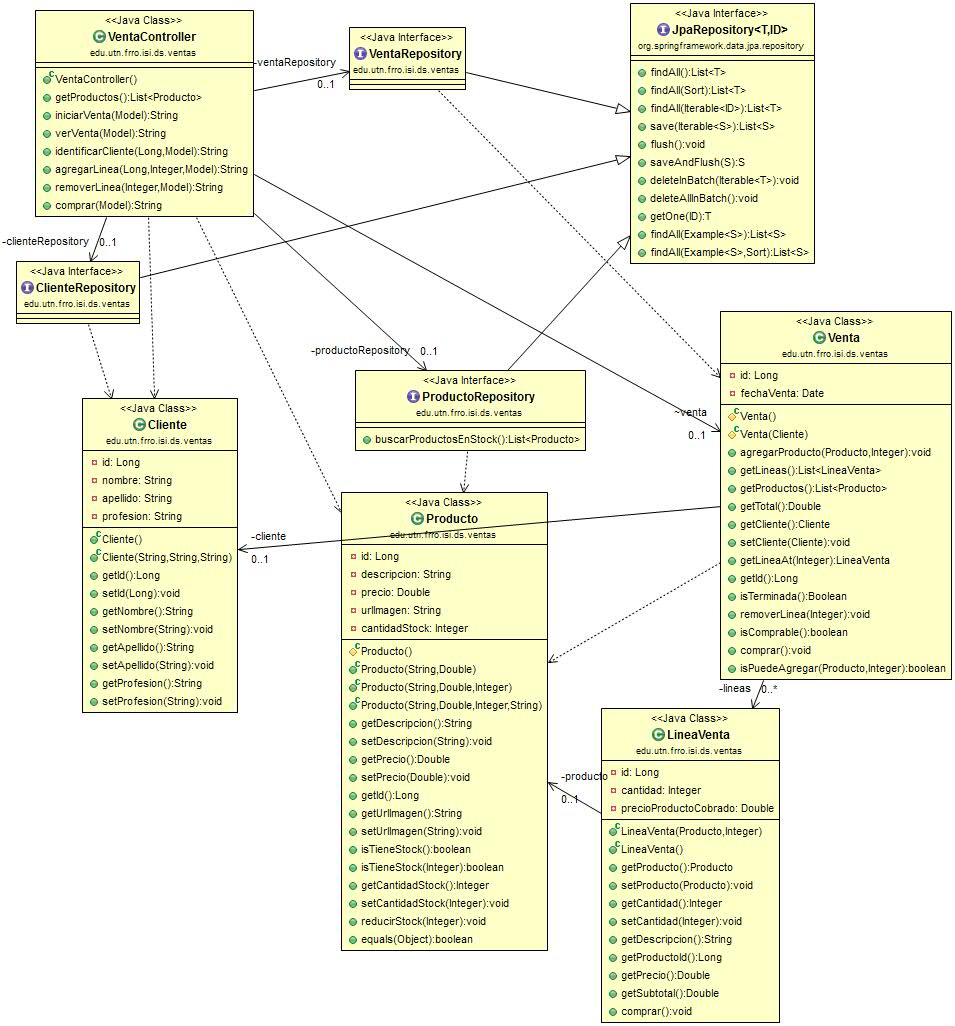
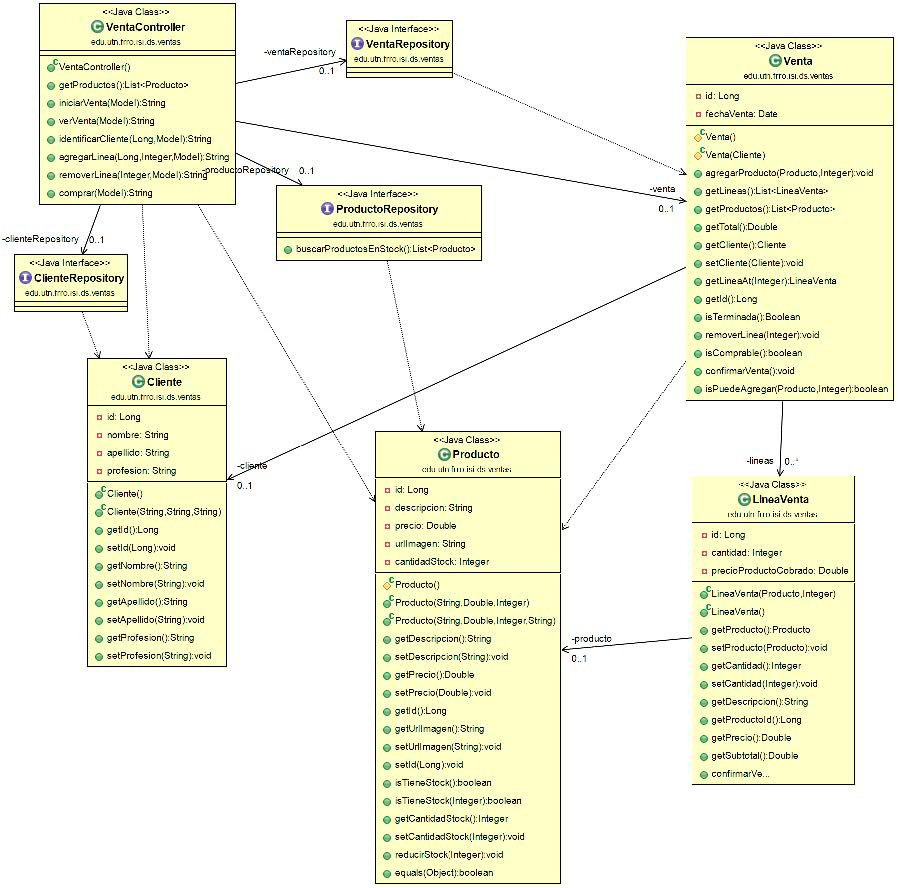
confirmarVenta

diff --git a/src/test/java/edu/utn/frro/isi/ds/ventas/VentaTest.java b/src/test/java/edu/utn/frro/isi/ds/ventas/VentaTest.java
@@ -49,12 +49,22 @@ public class VentaTest {
 		assertEquals(Double.valueOf(54.5), v.getTotal());
 	}
 	
-	@Test(expected=RuntimeException.class) public void agregarProductoDuplicado() {
+	@Test(expected=RuntimeException.class) public void evitarAgregarProductoDuplicado() {
 		v.agregarProducto(p1, 2);
 		v.agregarProducto(p1, 3);		
 	}
 	
-	@Test(expected=RuntimeException.class) public void agregarProductoSinStockSuficiente() {
+	@Test(expected=RuntimeException.class) public void evitarAgregarProductoSinStockSuficiente() {
 		v.agregarProducto(p1, 22);
+	}
+	
+	@Test public void totalVentaNoCambiaAlCambiarElPrecioProducto() {
+		v.agregarProducto(p1, 2);
+		v.agregarProducto(p2, 1);
+		Double totalAntesConfirmar = v.getTotal();
+		v.confirmarVenta();
+		p1.setPrecio(2.0);
+		Double totalDespuesConfirmar = v.getTotal();
+		assertEquals(totalAntesConfirmar, totalDespuesConfirmar);
 	}
 }

diff --git a/src/main/java/edu/utn/frro/isi/ds/ventas/LineaVenta.java b/src/main/java/edu/utn/frro/isi/ds/ventas/LineaVenta.java
@@ -57,18 +57,16 @@ public class LineaVenta {
 			return precioProductoCobrado;
 		}
 		if (producto==null)
-			return null;
+			return 0.0;
 		return producto.getPrecio();
 	}
 
 
 	public Double getSubtotal() {
-		if (producto==null)
-			return 0.0;
-		return producto.getPrecio() * cantidad;
+		return getPrecio() * cantidad;
 	}
 
-	public void comprar() {
+	public void confirmarVenta() {
 		producto.reducirStock(cantidad);
 		precioProductoCobrado = producto.getPrecio();
 	}

diff --git a/src/main/java/edu/utn/frro/isi/ds/ventas/VentaController.java b/src/main/java/edu/utn/frro/isi/ds/ventas/VentaController.java
@@ -79,7 +79,7 @@ public class VentaController {
     
     @RequestMapping(value="/", params={"Comprar"})
     public String comprar( Model model) {
-    	venta.comprar();
+    	venta.confirmarVenta();
     	ventaRepository.save(venta);
     	productoRepository.save(venta.getProductos());
     	

diff --git a/src/main/java/edu/utn/frro/isi/ds/ventas/Venta.java b/src/main/java/edu/utn/frro/isi/ds/ventas/Venta.java
@@ -106,9 +106,9 @@ public class Venta {
 		return !isTerminada() && lineas.size()>0;
 	}
 
-	public void comprar() {
+	public void confirmarVenta() {
 		for (LineaVenta linea : lineas) {
-			linea.comprar();
+			linea.confirmarVenta();
 		}
 		
 	}
